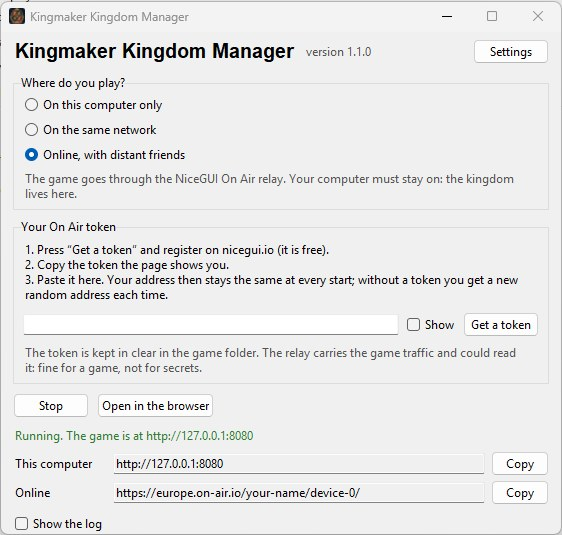
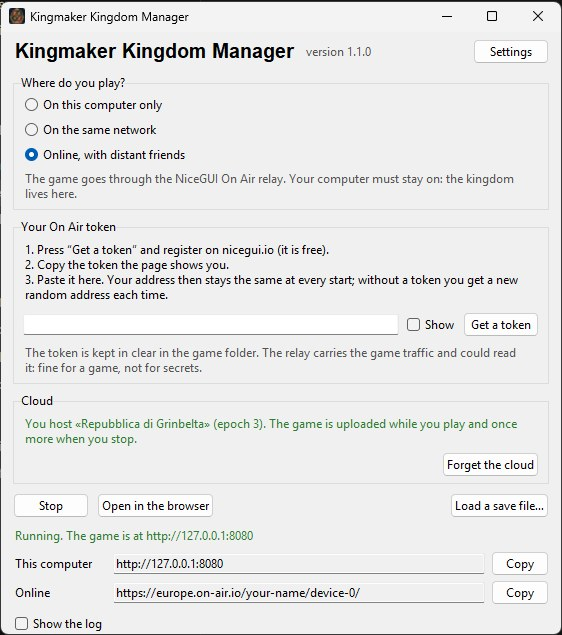
Tests on any machine, the launcher screenshot with the cloud, docs

diff --git a/tests/scene.py b/tests/scene.py
@@ -11,6 +11,7 @@ map — connectivity, costs, shores — stay true.
 
 Accounts: admin / gm / player, all with password `prova-<name>-1234`.
 """
+import base64
 import json
 import os
 import sys
@@ -60,6 +61,12 @@ def build() -> None:
     data = json.loads((HERE / "scene_hexes.json").read_text(encoding="utf-8"))
     k["name"] = "Test Kingdom"
     k["map"].update(data["map"])
+    # The map image the scene names: a one-pixel PNG in the scene's own
+    # assets folder, so the file exists wherever the suite runs.
+    from kingmaker import config
+    config.ASSETS_DIR.mkdir(parents=True, exist_ok=True)
+    (config.ASSETS_DIR / data["map"]["image"]).write_bytes(base64.b64decode(
[1 lines of base64/hex data omitted]
     k["hexes"] = {f'{e["col"]},{e["row"]}': {
         "col": e["col"], "row": e["row"], "status": e["status"],
         "terrains": e["terrains"], "features": [], "roads": e["roads"],

diff --git a/tests/run_all.py b/tests/run_all.py
@@ -16,8 +16,11 @@ import sys
 HERE = os.path.dirname(os.path.abspath(__file__))
 BASE = os.path.dirname(HERE)
 DATA = os.path.join(HERE, "scene")
+# The suite has its own images too: the scene's map is a placeholder written
+# by scene.py, never the table's real one, so a test that looks for the file
+# passes on any machine and not only where the live assets are.
 ENVIRONMENT = dict(os.environ, PYTHONPATH=BASE, PYTHONIOENCODING="utf-8",
-                KINGMAKER_DATA_DIR=DATA)
+                KINGMAKER_DATA_DIR=DATA, KINGMAKER_ASSETS_DIR=os.path.join(DATA, "assets"))
 SUITE = ["test_atoms.py", "test_ring.py", "test_faces.py", "test_redraw.py",
          "test_bank_model.py", "test_borders.py", "test_modes.py",
          "test_real_map.py", "test_map_banks.py", "test_cut.py",

diff --git a/CHANGELOG.md b/CHANGELOG.md
@@ -53,12 +53,20 @@ behind it. Running from source is unchanged.
   `.github/workflows/release.yml` and `ci.yml`; chapter 12 of the manual; a *Download*
   section in the README.
 
+- The party's crest as the face of the app: the launcher's icon, the installer's, the browser
+  tab's favicon and the badge next to the kingdom's name in the header and on the login page
+  (`kingmaker/ui/static/crest*.png`, `theme.crest`).
+- Chapter 13 of the manual (the cloud), a "Playing from several PCs" chapter in both user
+  guides, the launcher and wizard screenshots.
+
 ### Changed
 - When the app is frozen, `saves/`, `assets/` and the sessions live next to the executable
   (`config._root`), so the installed folder has the same shape as the repository and an update
   or an uninstall never touches the game. From source nothing moves, and a test pins it.
 - The Linux tarball is built on Ubuntu 22.04 and needs glibc 2.35 or newer (Ubuntu 22.04+,
   Debian 12+).
+- The test scene brings its own map image (a placeholder in `tests/scene/assets/`) instead of
+  naming the author's, so the suite passes on any machine.
 
 ## [1.0.0] — 2026-09-15
 

diff --git a/docs/manual/11-tests-and-tools.md b/docs/manual/11-tests-and-tools.md
@@ -22,7 +22,9 @@ python tests/run_all.py test_lake.py        # a single file
 
 `run_all.py` builds **a scene from scratch** (`scene.py` → `tests/scene/`, not versioned:
 three test accounts, four characters with neutral fantasy names, a wagon, the grid with the
-terrains alone from `scene_hexes.json`), then runs every `test_*.py` in its own process,
+terrains alone from `scene_hexes.json`, and a one-pixel placeholder as the map image in the
+scene's own `assets/` folder — `KINGMAKER_ASSETS_DIR` points there, so no test depends on
+the images of this PC), then runs every `test_*.py` in its own process,
 resetting the scene first (`stage.py`: the test river, the boat, everyone in their place, no
 journey in progress) so a file does not inherit the state left by another, and adds up the
 counts. The tests print ` ok`/` NO` per assertion and end with `N/M passed`. Today they are

diff --git a/docs/it/guida-utente.md b/docs/it/guida-utente.md
@@ -338,7 +338,8 @@ sovrascriverebbe le modifiche dell'altro.
 
 Se arrivi da una versione precedente non devi fare niente: al primo avvio il vecchio
 `saves/regno.json` viene importato da solo nel database, e il file resta dov'è come copia di
-sicurezza. Dal Manuale puoi comunque scaricare il salvataggio in JSON quando vuoi.
+sicurezza. Dalla scheda Salvataggio scarichi tutta la partita in un solo zip, con dentro il
+regno in JSON.
 
 Puoi spostare i dati altrove con la variabile d'ambiente `KINGMAKER_DATA_DIR` (e le immagini con
 `KINGMAKER_ASSETS_DIR`): serve per il giorno in cui l'app girerà su un servizio di hosting invece

diff --git a/docs/user-guide.md b/docs/user-guide.md
@@ -112,7 +112,8 @@ The game lives in `saves/kingmaker.db`, written at most every two seconds and at
 `KINGMAKER_DATA_DIR` moves the data folder, `KINGMAKER_ASSETS_DIR` the images. A save from
 release 0.x is migrated at the first start, after an automatic copy named
 `kingmaker.db.pre-v27.bak`; an old `saves/regno.json` is imported into an empty database and
-left where it is. From the Manual tab the administrator can download the save as JSON.
+left where it is. From the Save tab the administrator downloads the whole game as one zip, the
+kingdom as JSON inside it.
 
 ### Characters
 
